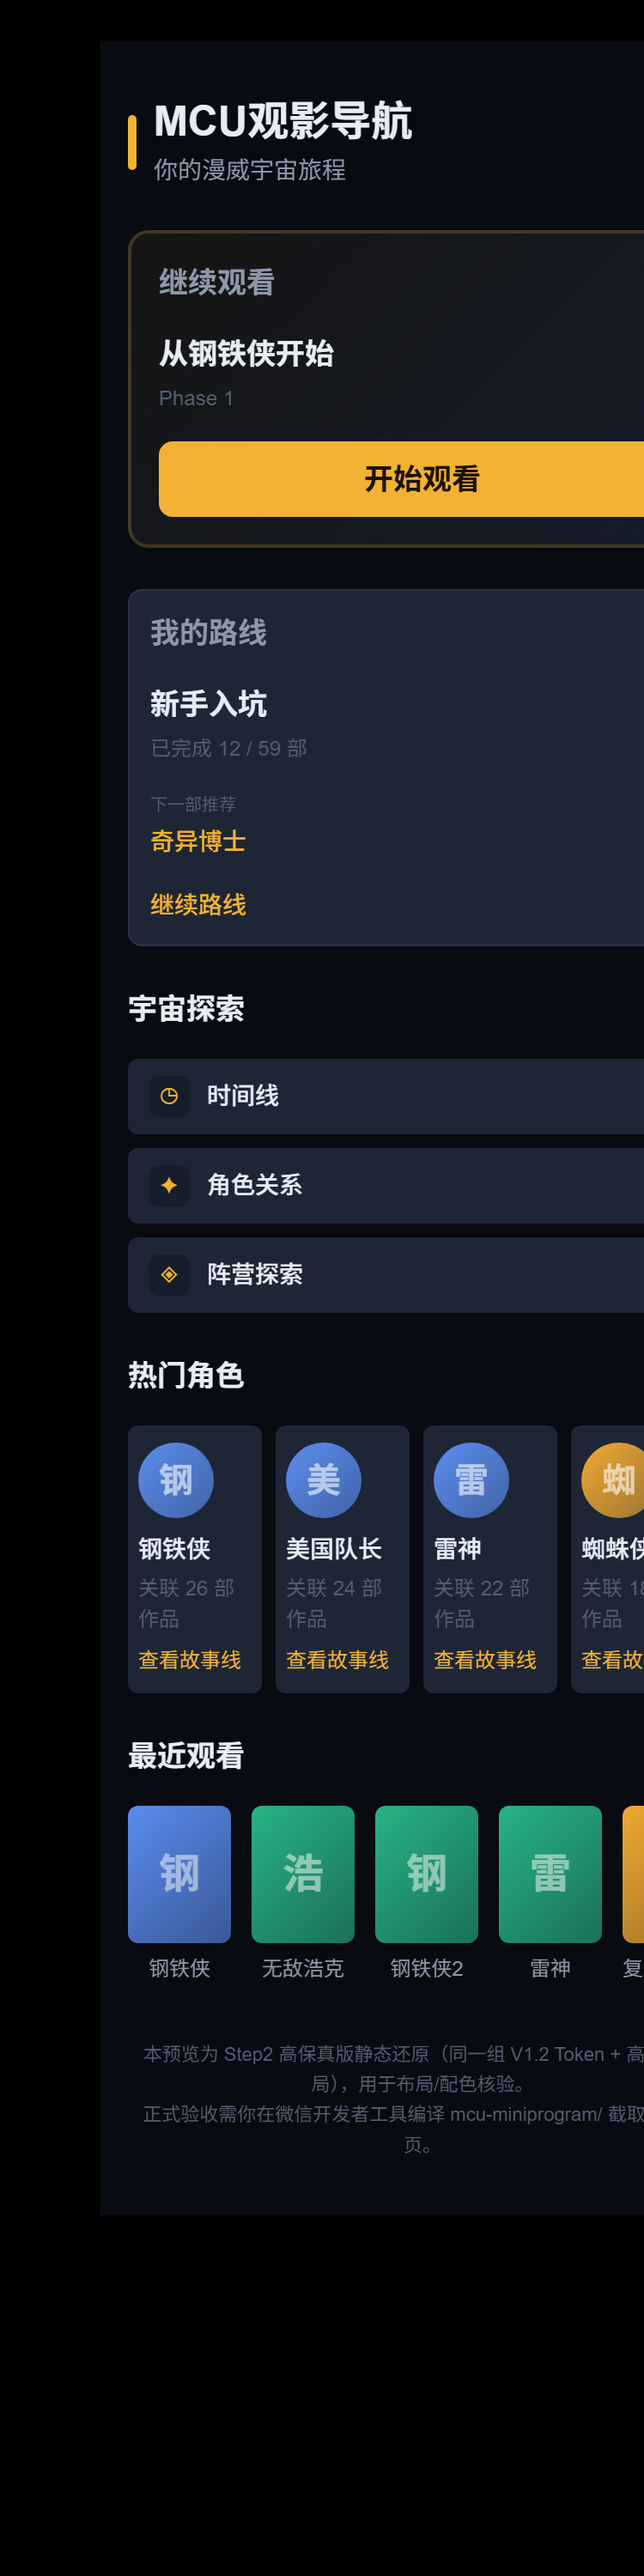
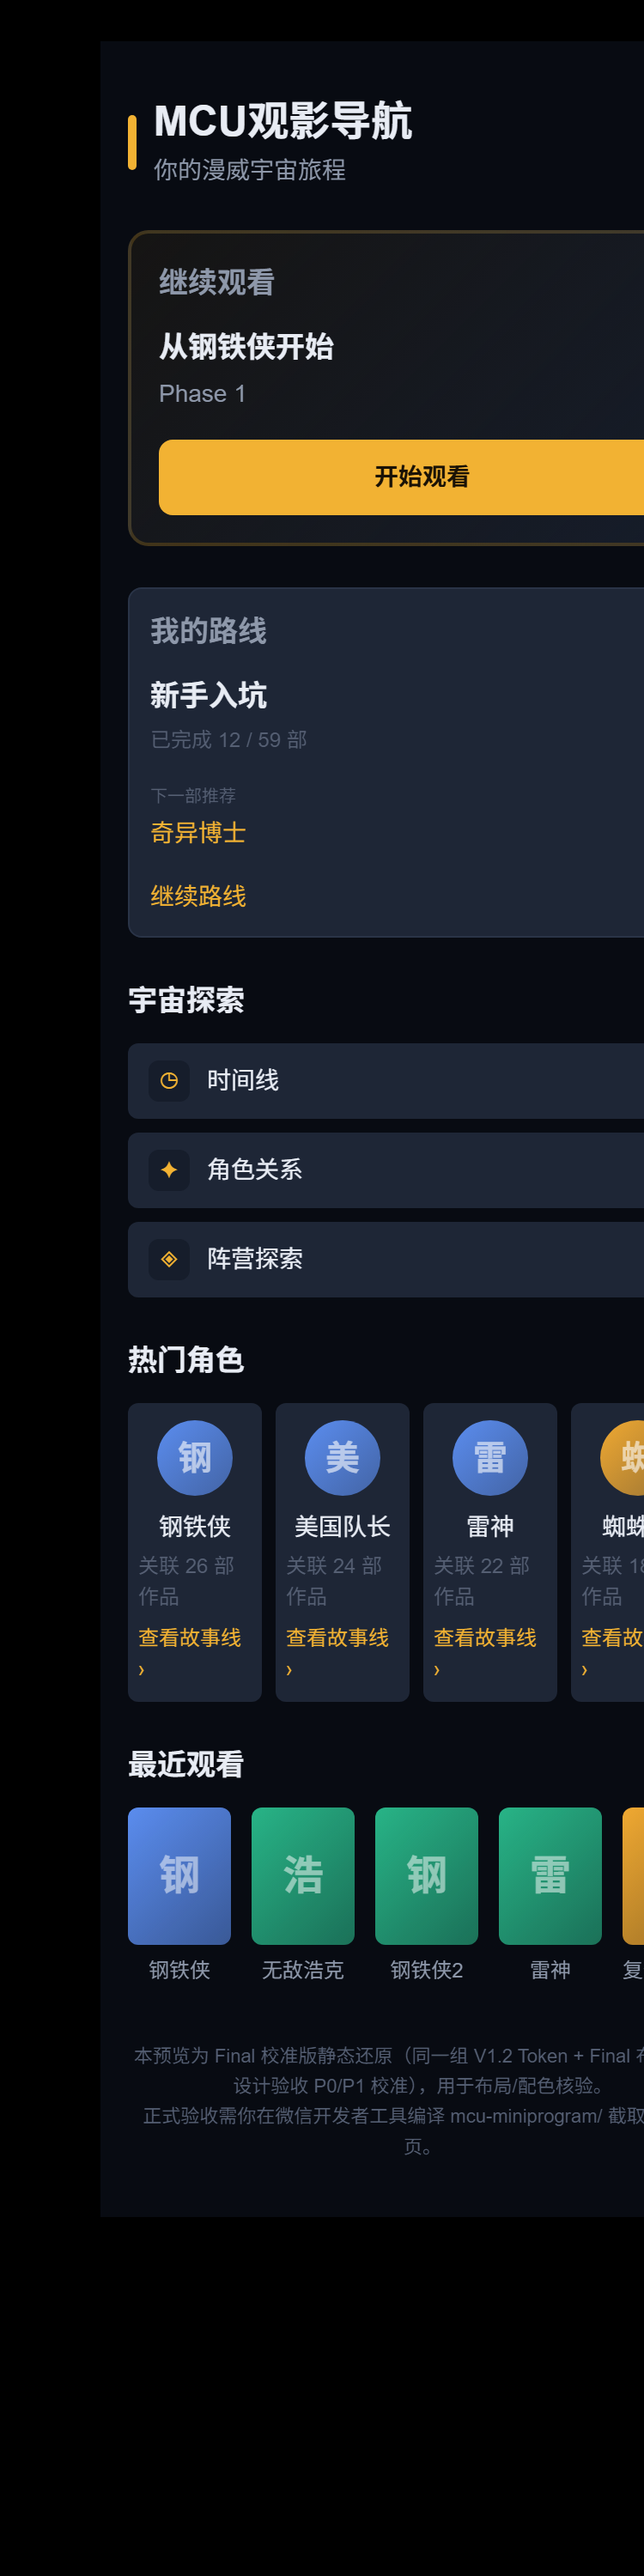
V1.2首页 Final校准：按设计验收意见P0+P1执行（CTA28rpx/去500字重/角色卡居中/phase28rpx-sub/card-title24rpx/故事线箭头）

diff --git a/AI生成文件/小程序/V1.2首页_视觉预览.html b/AI生成文件/小程序/V1.2首页_视觉预览.html
@@ -3,7 +3,7 @@
 <head>
 <meta charset="UTF-8" />
 <meta name="viewport" content="width=375, initial-scale=1.0" />
-<title>MCU观影导航 V1.2 首页 · 视觉预览（Step2 高保真版 · 静态还原，非真机截图）</title>
+<title>MCU观影导航 V1.2 首页 · 视觉预览（Final 校准版 · 静态还原，非真机截图）</title>
 <style>
   :root{
     --bg:#080B12; --surface-1:#161D2B; --surface-2:#1E2636; --surface-3:#2A3447;
@@ -27,35 +27,35 @@
   .brand-title{font-size:var(--fs-d); font-weight:700; color:var(--text-main); line-height:1.25;}
   .brand-sub{font-size:var(--fs-b); color:var(--text-sub); margin-top:3px;}
   /* card title */
-  .card-title{font-size:var(--fs-t); font-weight:600; color:var(--text-sub); margin-bottom:var(--s-lg);}
-  .module-title{font-size:var(--fs-t); font-weight:600; color:var(--text-main); margin-bottom:var(--s-lg);}
+  .card-title{font-size:var(--fs-t); font-weight:600; color:var(--text-sub); margin-bottom:var(--s-md);}
+  .module-title{font-size:var(--fs-t); font-weight:600; color:var(--text-main); margin-bottom:var(--s-md);}
   /* ② hero */
   .continue{background:linear-gradient(135deg,var(--gold-a06),var(--surface-1)); border:2px solid var(--gold-a20); border-radius:12px; padding:16px; margin-bottom:var(--s-xl);}
   .movie-name{font-size:var(--fs-t); font-weight:600; color:var(--text-main);}
-  .movie-phase{font-size:var(--fs-c); color:var(--text-weak); margin-top:var(--s-xs);}
+  .movie-phase{font-size:var(--fs-b); color:var(--text-sub); margin-top:var(--s-xs);}
   .movie-progress-label{font-size:var(--fs-m); color:var(--text-weak); margin-top:var(--s-sm);}
-  .movie-progress{font-size:var(--fs-c); color:var(--gold); font-weight:600; margin-top:var(--s-xs);}
-  .btn-accent{width:100%; background:var(--gold); color:var(--gold-btn-text); font-size:var(--fs-t); font-weight:600; border-radius:8px; height:44px; line-height:44px; text-align:center; margin-top:var(--s-lg);}
+  .movie-progress{font-size:var(--fs-c); color:var(--gold); font-weight:400; margin-top:var(--s-xs);}
+  .btn-accent{width:100%; background:var(--gold); color:var(--gold-btn-text); font-size:var(--fs-b); font-weight:600; border-radius:8px; height:44px; line-height:44px; text-align:center; margin-top:var(--s-lg);}
   /* ③ my route */
   .myroute{background:var(--surface-2); border:1px solid var(--surface-3); border-radius:8px; padding:12px; margin-bottom:var(--s-xl);}
   .route-name{font-size:var(--fs-t); font-weight:600; color:var(--text-main);}
   .route-progress{font-size:var(--fs-c); color:var(--text-weak); margin-top:var(--s-xs);}
   .route-next{margin-top:var(--s-lg);}
   .next-label{font-size:var(--fs-m); color:var(--text-weak);}
-  .next-name{font-size:var(--fs-b); font-weight:500; color:var(--gold); margin-top:var(--s-xs);}
-  .btn-ghost{display:inline-block; color:var(--gold); font-size:var(--fs-b); font-weight:500; margin-top:var(--s-lg);}
+  .next-name{font-size:var(--fs-b); font-weight:400; color:var(--gold); margin-top:var(--s-xs);}
+  .btn-ghost{display:inline-block; color:var(--gold); font-size:var(--fs-b); font-weight:400; margin-top:var(--s-lg);}
   /* ④ explore */
   .explore-card{display:flex; align-items:center; background:var(--surface-2); border-radius:6px; min-height:36px; padding:10px 12px; margin-bottom:8px;}
   .explore-ic-wrap{width:24px; height:24px; border-radius:6px; background:var(--surface-1); display:flex; align-items:center; justify-content:center; flex-shrink:0;}
   .explore-ic{font-size:14px; line-height:1; color:var(--gold);}
-  .explore-title{font-size:var(--fs-b); font-weight:500; color:var(--text-main); margin-left:10px;}
+  .explore-title{font-size:var(--fs-b); font-weight:400; color:var(--text-main); margin-left:10px;}
   .explore-arrow{margin-left:auto; font-size:var(--fs-c); color:var(--text-weak);}
   .explore-hint{margin-bottom:var(--s-xl);}
   /* ⑤ hot chars */
   .char-scroll{display:flex; gap:8px; margin-bottom:var(--s-xl); overflow-x:auto;}
-  .char-card{flex-shrink:0; width:78px; background:var(--surface-2); border-radius:6px; padding:10px 6px; display:flex; flex-direction:column; align-items:flex-start;}
+  .char-card{flex-shrink:0; width:78px; background:var(--surface-2); border-radius:6px; padding:10px 6px; display:flex; flex-direction:column; align-items:center;}
   .char-avatar{width:44px; height:44px; border-radius:50%; display:flex; align-items:center; justify-content:center; font-size:var(--fs-ds); font-weight:700; color:var(--white-a60); margin-bottom:var(--s-sm);}
-  .char-name{font-size:var(--fs-b); color:var(--text-main); font-weight:500;}
+  .char-name{font-size:var(--fs-b); color:var(--text-main); font-weight:400;}
   .char-count{font-size:var(--fs-c); color:var(--text-weak); margin-top:3px;}
   .char-story{font-size:var(--fs-c); color:var(--gold); font-weight:400; margin-top:6px;}
   /* ⑥ recent */
@@ -123,10 +123,10 @@
   <div>
     <div class="module-title">热门角色</div>
     <div class="char-scroll">
-      <div class="char-card"><div class="char-avatar p1">钢</div><div class="char-name">钢铁侠</div><div class="char-count">关联 26 部作品</div><div class="char-story">查看故事线</div></div>
-      <div class="char-card"><div class="char-avatar p1">美</div><div class="char-name">美国队长</div><div class="char-count">关联 24 部作品</div><div class="char-story">查看故事线</div></div>
-      <div class="char-card"><div class="char-avatar p1">雷</div><div class="char-name">雷神</div><div class="char-count">关联 22 部作品</div><div class="char-story">查看故事线</div></div>
-      <div class="char-card"><div class="char-avatar p3">蜘</div><div class="char-name">蜘蛛侠</div><div class="char-count">关联 18 部作品</div><div class="char-story">查看故事线</div></div>
+      <div class="char-card"><div class="char-avatar p1">钢</div><div class="char-name">钢铁侠</div><div class="char-count">关联 26 部作品</div><div class="char-story">查看故事线 ›</div></div>
+      <div class="char-card"><div class="char-avatar p1">美</div><div class="char-name">美国队长</div><div class="char-count">关联 24 部作品</div><div class="char-story">查看故事线 ›</div></div>
+      <div class="char-card"><div class="char-avatar p1">雷</div><div class="char-name">雷神</div><div class="char-count">关联 22 部作品</div><div class="char-story">查看故事线 ›</div></div>
+      <div class="char-card"><div class="char-avatar p3">蜘</div><div class="char-name">蜘蛛侠</div><div class="char-count">关联 18 部作品</div><div class="char-story">查看故事线 ›</div></div>
     </div>
   </div>
 
@@ -143,7 +143,7 @@
     </div>
   </div>
 
-  <div class="note">本预览为 Step2 高保真版静态还原（同一组 V1.2 Token + 高保真布局），用于布局/配色核验。<br>正式验收需你在微信开发者工具编译 mcu-miniprogram/ 截取真机首页。</div>
+  <div class="note">本预览为 Final 校准版静态还原（同一组 V1.2 Token + Final 布局，含设计验收 P0/P1 校准），用于布局/配色核验。<br>正式验收需你在微信开发者工具编译 mcu-miniprogram/ 截取真机首页。</div>
 </div>
 
 <script>
